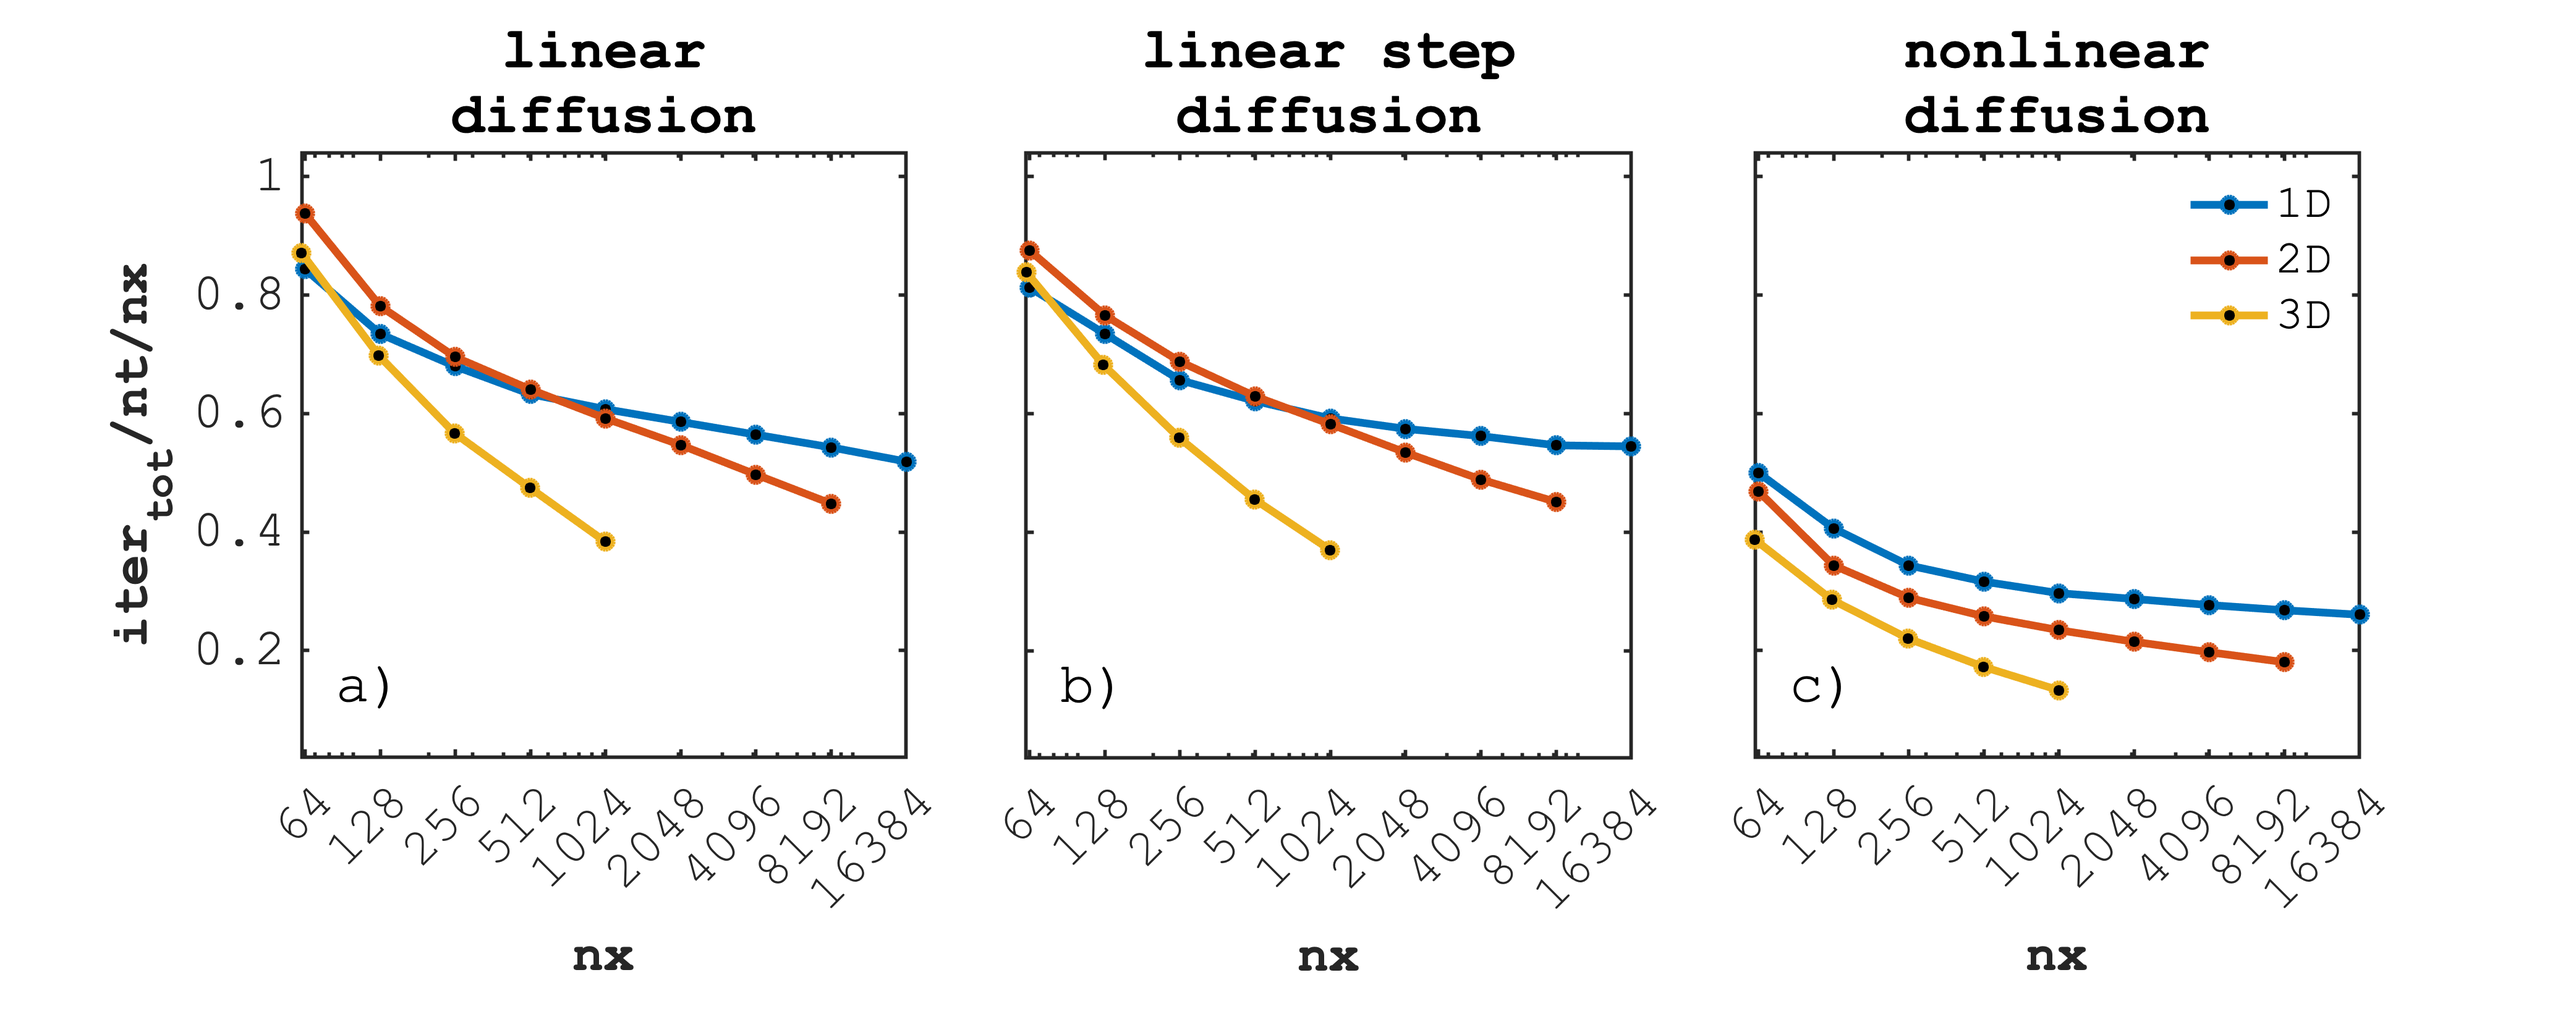
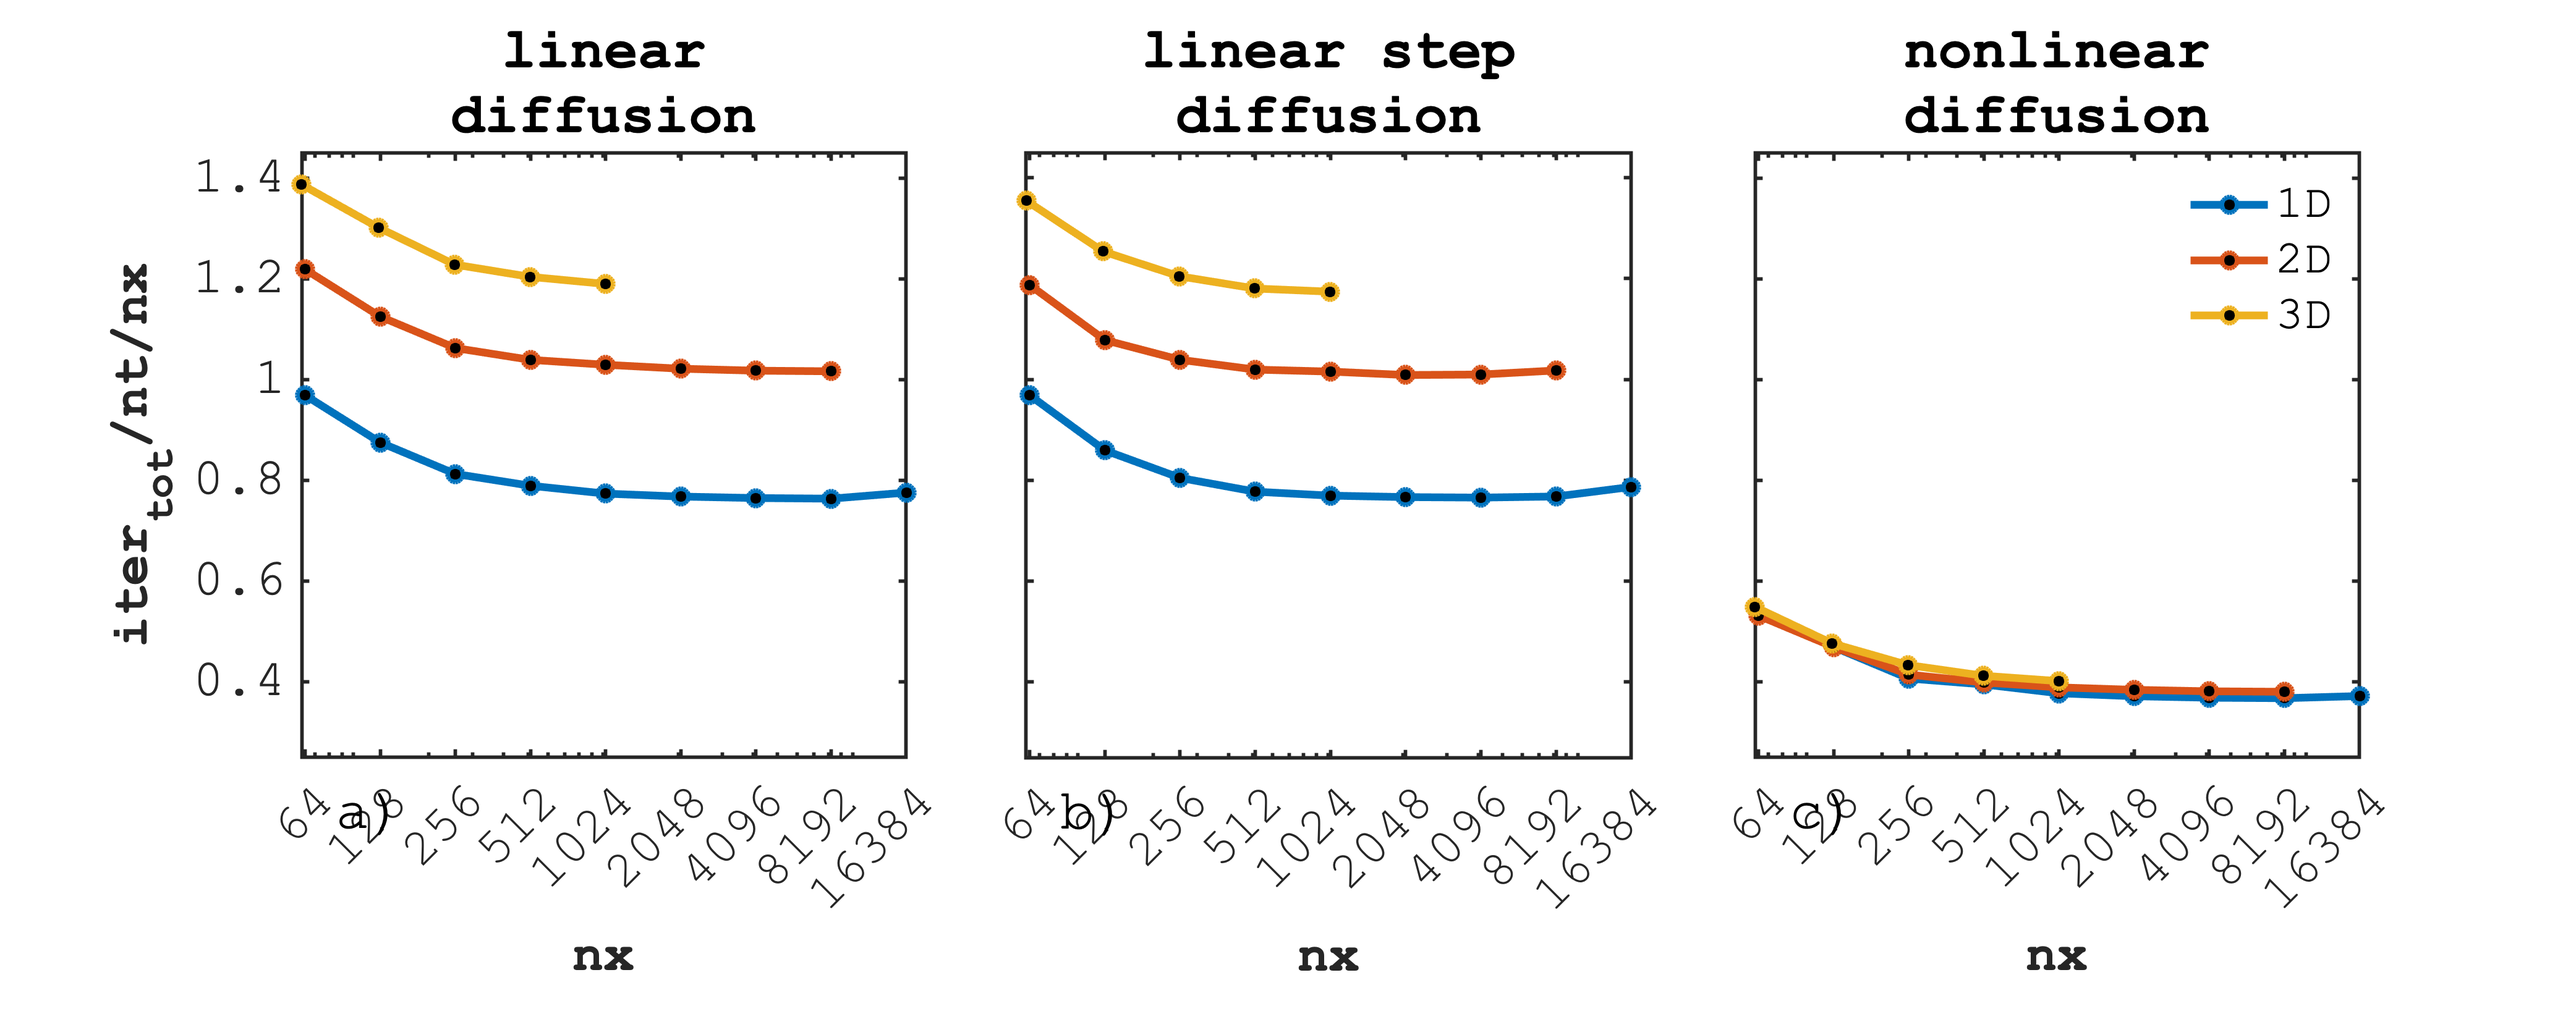
Add new residual scaling and norm.

diff --git a/visu/viz_scaling.m b/visu/viz_scaling.m
@@ -1,20 +1,20 @@
 clear
 
 % load scaling_data
-fid = fopen('../output/out_diff_1D_lin.txt'         ,'r'); diff_1D_lin = fscanf(fid, '%d %d %d',       [3 Inf]); fclose(fid);
-fid = fopen('../output/out_diff_2D_lin.txt'         ,'r'); diff_2D_lin = fscanf(fid, '%d %d %d %d',    [4 Inf]); fclose(fid);
-fid = fopen('../output/out_diff_3D_lin_multixpu.txt','r'); diff_3D_lin = fscanf(fid, '%d %d %d %d %d', [5 Inf]); fclose(fid);
+fid = fopen('../output/out_diff_1D_lin.txt','r'); diff_1D_lin = fscanf(fid, '%d %d %d',       [3 Inf]); fclose(fid);
+fid = fopen('../output/out_diff_2D_lin.txt','r'); diff_2D_lin = fscanf(fid, '%d %d %d %d',    [4 Inf]); fclose(fid);
+fid = fopen('../output/out_diff_3D_lin.txt','r'); diff_3D_lin = fscanf(fid, '%d %d %d %d %d', [5 Inf]); fclose(fid);
 
-fid = fopen('../output/out_diff_1D_linstep.txt'         ,'r'); diff_1D_linstep = fscanf(fid, '%d %d %d',       [3 Inf]); fclose(fid);
-fid = fopen('../output/out_diff_2D_linstep.txt'         ,'r'); diff_2D_linstep = fscanf(fid, '%d %d %d %d',    [4 Inf]); fclose(fid);
-fid = fopen('../output/out_diff_3D_linstep_multixpu.txt','r'); diff_3D_linstep = fscanf(fid, '%d %d %d %d %d', [5 Inf]); fclose(fid);
+fid = fopen('../output/out_diff_1D_linstep.txt','r'); diff_1D_linstep = fscanf(fid, '%d %d %d',       [3 Inf]); fclose(fid);
+fid = fopen('../output/out_diff_2D_linstep.txt','r'); diff_2D_linstep = fscanf(fid, '%d %d %d %d',    [4 Inf]); fclose(fid);
+fid = fopen('../output/out_diff_3D_linstep.txt','r'); diff_3D_linstep = fscanf(fid, '%d %d %d %d %d', [5 Inf]); fclose(fid);
 
-fid = fopen('../output/out_diff_1D_nonlin.txt'         ,'r'); diff_1D_nonlin = fscanf(fid, '%d %d %d',       [3 Inf]); fclose(fid);
-fid = fopen('../output/out_diff_2D_nonlin.txt'         ,'r'); diff_2D_nonlin = fscanf(fid, '%d %d %d %d',    [4 Inf]); fclose(fid);
-fid = fopen('../output/out_diff_3D_nonlin_multixpu.txt','r'); diff_3D_nonlin = fscanf(fid, '%d %d %d %d %d', [5 Inf]); fclose(fid);
+fid = fopen('../output/out_diff_1D_nonlin.txt','r'); diff_1D_nonlin = fscanf(fid, '%d %d %d',       [3 Inf]); fclose(fid);
+fid = fopen('../output/out_diff_2D_nonlin.txt','r'); diff_2D_nonlin = fscanf(fid, '%d %d %d %d',    [4 Inf]); fclose(fid);
+fid = fopen('../output/out_diff_3D_nonlin.txt','r'); diff_3D_nonlin = fscanf(fid, '%d %d %d %d %d', [5 Inf]); fclose(fid);
 
 FS = 20;
-mylim = [0.02 1.04];
+mylim = [0.25 1.45];% [0.02 1.04];
 ylab = 0.14;
 
 fig1 = 1;
